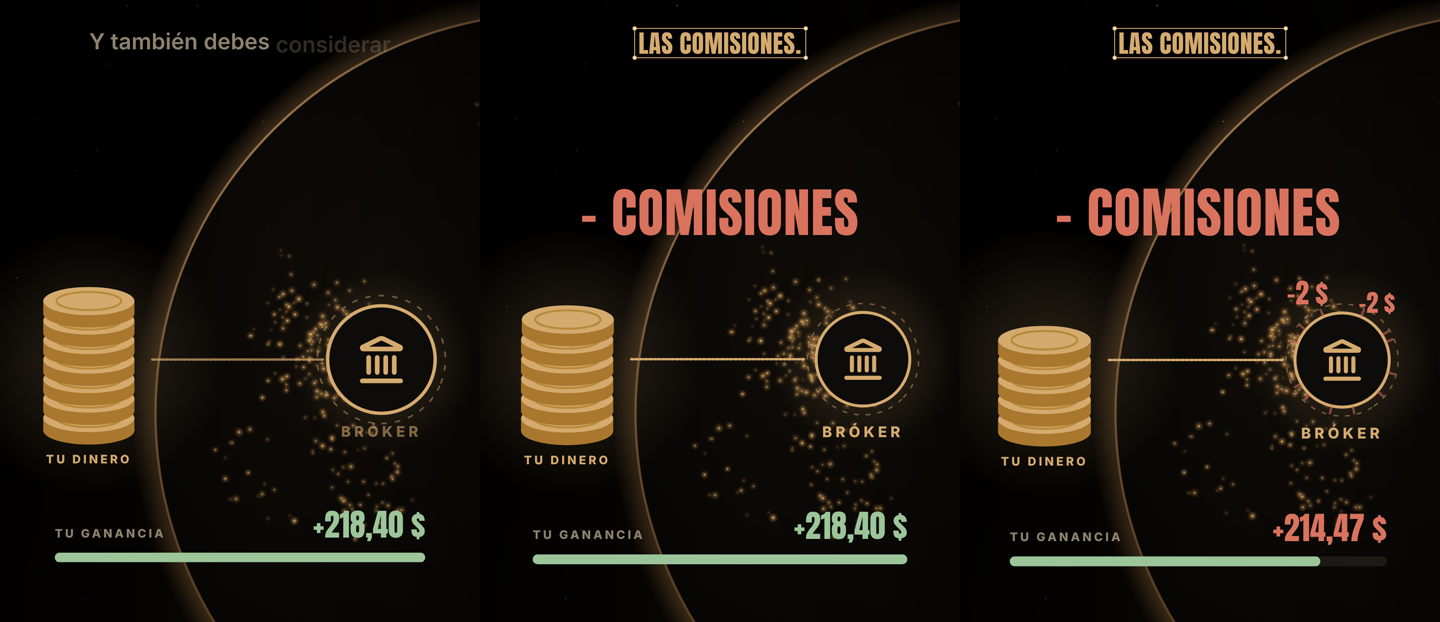
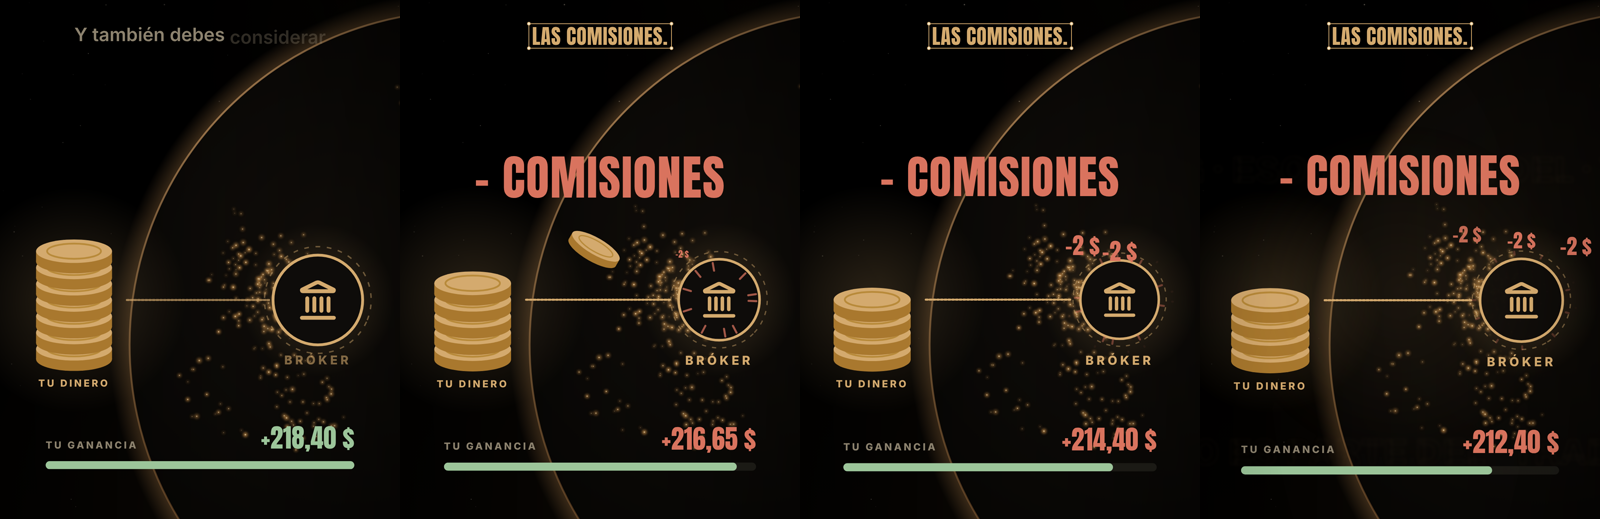
Reel acción v6: tipografías Bricolage y Anton, gancho animado, comisiones tic-tic-tic
Claude-Session: https://claude.ai/code/session_01Usms2r7kyNP6cbVRcrKfdD

diff --git a/reels/que-es-una-accion/proyecto/src/propias/Graficas.tsx b/reels/que-es-una-accion/proyecto/src/propias/Graficas.tsx
@@ -398,18 +398,20 @@ const Comision: React.FC<PropsEscena> = ({ b }) => {
   const linea0 = 360,
     linea1 = nodo[0] - 120;
   // en cada comisión, la moneda de arriba viaja por la línea hasta el bróker
-  const vuela = (k: number) => (k === nMon - 1 ? b2 - 4 : k === nMon - 2 ? b2 + 6 : 1e9);
-  const c1 = pr(f, b2 + 8, 6),
-    c2 = pr(f, b2 + 18, 6);
+  // tic, tic, tic: tres monedas pasan al bróker una detrás de otra
+  const SALIDAS = [b2 - 6, b2 + 1, b2 + 8];
+  const LLEGA = SALIDAS.map((x) => x + 10);
+  const vuela = (k: number) => (k >= nMon - 3 ? SALIDAS[nMon - 1 - k] : 1e9);
+  const cobrado = LLEGA.reduce((n, x) => n + pr(f, x, 4), 0);
   void b3;
-  const neta = 218.4 - 2 * c1 - 2 * c2;
+  const neta = 218.4 - 2 * cobrado;
   const barra = pr(f, b0, 14);
-  const g = temblor(f, b2 + 18, 6);
+  const g = temblor(f, LLEGA[2], 6);
   const menos = (d: number, dx = 0) => {
     const t = f - d;
     if (t < 0 || t > 30) return null;
     return (
-      <div key={d} style={{ position: "absolute", left: nodo[0] - 60 + dx, top: nodo[1] - 150 - t * 2, width: 120, textAlign: "center", fontFamily: CLAVE, fontSize: 56, color: ROJO, opacity: Math.min(1, (30 - t) / 10), transform: `scale(${sp(f, d)})` }}>
+      <div key={d} style={{ position: "absolute", left: nodo[0] - 60 + dx, top: nodo[1] - 150 - t * 2, width: 120, textAlign: "center", fontFamily: CLAVE, fontSize: 46, color: ROJO, opacity: Math.min(1, (30 - t) / 10), transform: `scale(${sp(f, d)})` }}>
         −2 $
       </div>
     );
@@ -423,7 +425,7 @@ const Comision: React.FC<PropsEscena> = ({ b }) => {
         {Array.from({ length: nMon }).map((_, k) => {
           const cae = pr(f, k * 2.5, 10, Easing.out(Easing.bounce));
           const y0 = baseY - k * 40;
-          const t = pr(f, vuela(k), 12, Easing.inOut(Easing.cubic));
+          const t = pr(f, vuela(k), 10, Easing.inOut(Easing.cubic));
           if (t >= 1) return null;
           const x = xS + (nodo[0] - xS) * t,
             y = (y0 - 600 * (1 - cae)) * (1 - t) + nodo[1] * t - Math.sin(t * Math.PI) * 90;
@@ -431,19 +433,19 @@ const Comision: React.FC<PropsEscena> = ({ b }) => {
         })}
       </svg>
       <div style={{ position: "absolute", left: xS - 150, width: 300, top: baseY + 70, textAlign: "center", fontFamily: F.texto, fontWeight: 800, fontSize: 24, letterSpacing: 5, color: ORO, opacity: pr(f, b0, 8) }}>TU DINERO</div>
-      <Nodo x={nodo[0]} y={nodo[1]} r={95} icono="landmark" texto="BRÓKER" desde={b1 - 4} pulso={b2 + 8} />
-      {menos(b2 + 8, -70)}
-      {menos(b2 + 18, 70)}
-      <Chispas desde={b2 + 8} x={nodo[0]} y={nodo[1]} color={ROJO} n={12} r={150} />
-      <Chispas desde={b2 + 18} x={nodo[0]} y={nodo[1]} color={ROJO} n={12} r={150} />
+      <Nodo x={nodo[0]} y={nodo[1]} r={95} icono="landmark" texto="BRÓKER" desde={b1 - 4} pulso={LLEGA[0]} />
+      {LLEGA.map((x, k) => menos(x, (k - 1) * 130))}
+      {LLEGA.map((x) => (
+        <Chispas key={x} desde={x} x={nodo[0]} y={nodo[1]} color={ROJO} n={10} r={140} />
+      ))}
       {/* tu ganancia: un número grande y una barra que se acorta */}
       <div style={{ position: "absolute", left: 160, right: 160, top: 930, opacity: barra }}>
         <div style={{ display: "flex", justifyContent: "space-between", alignItems: "baseline" }}>
           <span style={{ fontFamily: F.texto, fontWeight: 800, fontSize: 24, letterSpacing: 5, color: C.suave }}>TU GANANCIA</span>
-          <span style={{ fontFamily: CLAVE, fontSize: 64, color: c1 > 0 ? ROJO : VERDE, fontVariantNumeric: "tabular-nums" }}>+{numeroES(neta, 2)} $</span>
+          <span style={{ fontFamily: CLAVE, fontSize: 64, color: cobrado > 0 ? ROJO : VERDE, fontVariantNumeric: "tabular-nums" }}>+{numeroES(neta, 2)} $</span>
         </div>
         <div style={{ position: "relative", height: 20, borderRadius: 10, background: alfa(C.texto, 0.08), marginTop: 10, overflow: "hidden" }}>
-          <div style={{ position: "absolute", left: 0, top: 0, bottom: 0, width: `${(100 - 9 * c1 - 9 * c2) * barra}%`, background: VERDE, borderRadius: 10 }} />
+          <div style={{ position: "absolute", left: 0, top: 0, bottom: 0, width: `${(100 - 7 * cobrado) * barra}%`, background: VERDE, borderRadius: 10 }} />
         </div>
       </div>
       {f >= b2 - 2 && (
@@ -459,11 +461,10 @@ export const comision: DefEscena = {
   C: Comision,
   momentos: 4,
   alInicio: () => true,
+  // las monedas que caen al principio y el golpe del título; los "tic" de cada moneda van en el plan
   sonidos: () => [
-    [0, "tic", 0.25],
-    [1, "papel", 0.3],
-    [2, "swoosh", 0.3],
-    [3, "negacion", 0.3],
+    [0, "papel", 0.2],
+    [2, "golpe", 0.25],
   ],
 };
 
